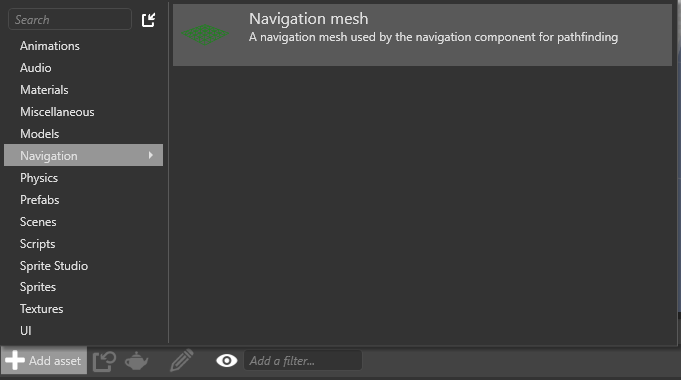
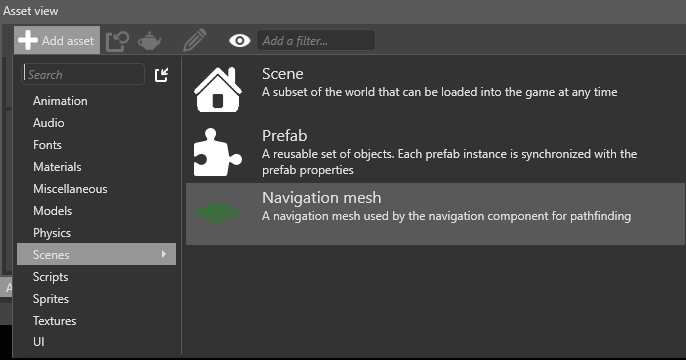
[Navigation] update screenshot, fix typo

Changed region(s): [[0.0, 0.0, 1.0, 1.0], [0.2159, 0.1833, 0.2467, 0.2444]]

diff --git a/manual/toc.md b/manual/toc.md
@@ -82,7 +82,7 @@
 ## [Navigation](game-studio/navigation.md)
 ### [Navigation groups](game-studio/navigation-groups.md)
 ### [Navigation meshes](game-studio/navigation-meshes.md)
-### [Navigtation bounding boxes](game-studio/navigation-bounding-boxes.md)
+### [Navigation bounding boxes](game-studio/navigation-bounding-boxes.md)
 ### [Navigation components](game-studio/navigation-components.md)
 ### [Dynamic navigation](game-studio/dynamic-navigation.md)
 ## [World units](game-studio/world-units.md)

diff --git a/manual/game-studio/navigation-meshes.md b/manual/game-studio/navigation-meshes.md
@@ -16,7 +16,7 @@ Game Studio displays navigation meshes as colored overlays in your scene. The ov
 
 ## Create a navigation mesh
 
-1. In the **asset view** (bottom by default), click **Add asset > Navigation > Navigation mesh**.
+1. In the **asset view** (bottom by default), click **Add asset > Scenes > Navigation mesh**.
 
     ![Select Game Settings asset](media/add-navigation-mesh.png)
 
